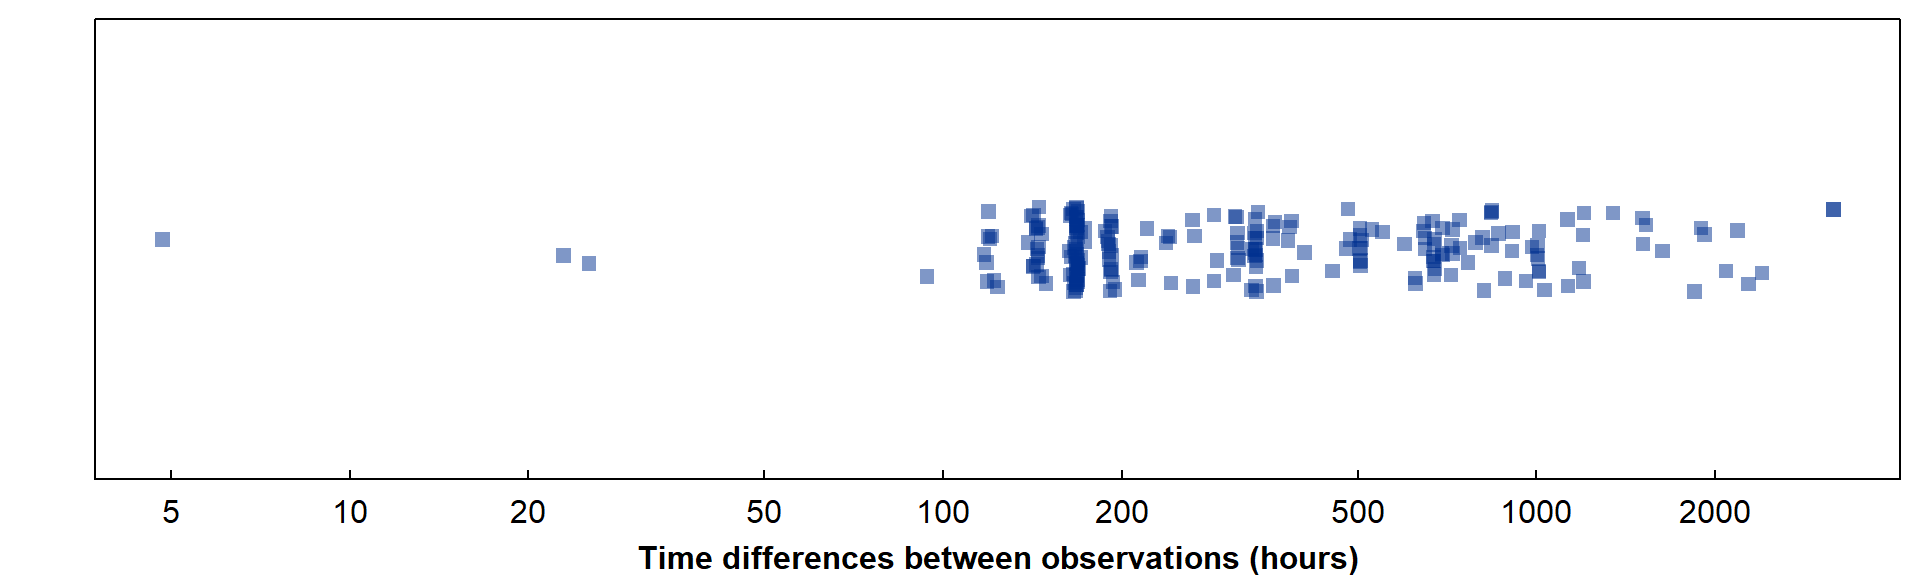
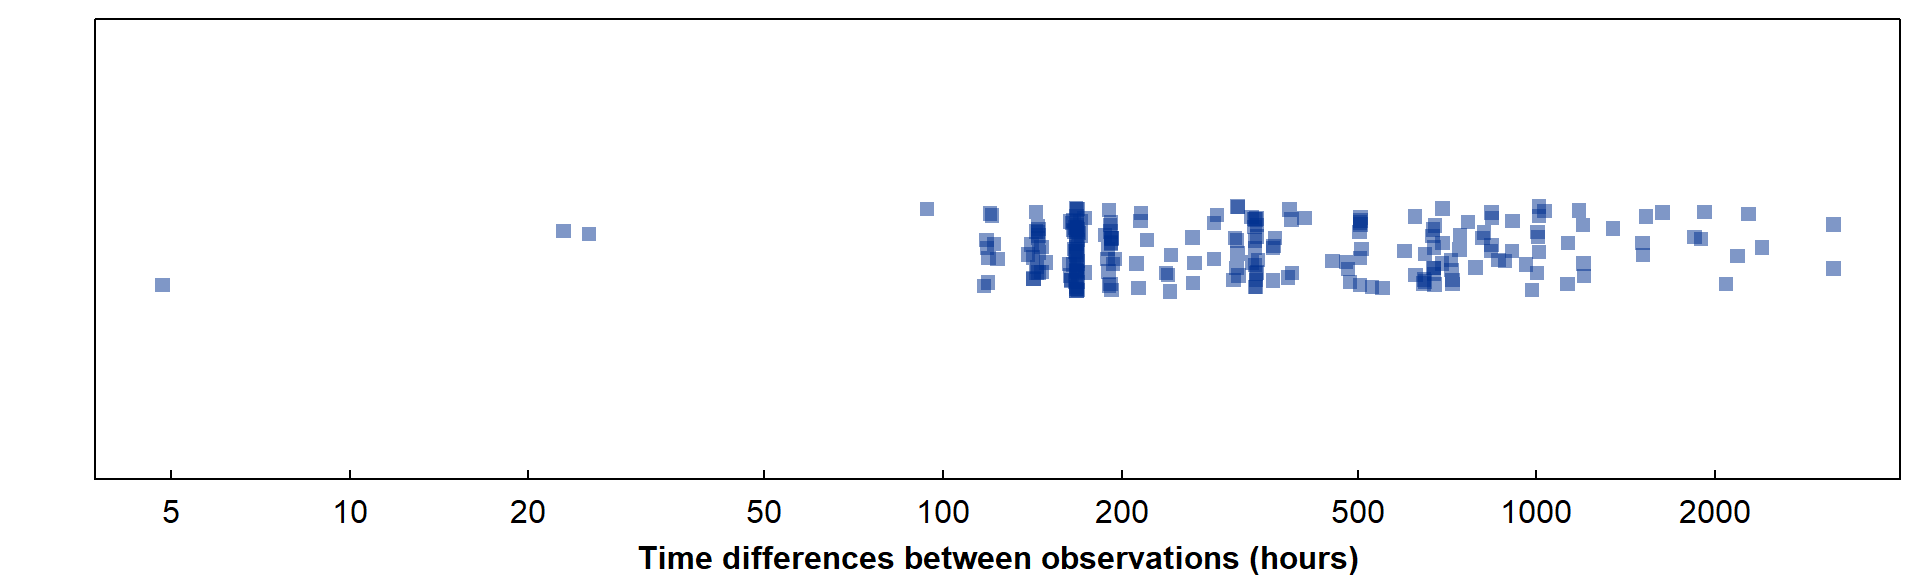
fix carryovers from litedown

diff --git a/docs/regTS.html b/docs/regTS.html
@@ -11,7 +11,7 @@
 
 <meta name="author" content="Andrew Rate" />
 
-<meta name="date" content="2026-11-08" />
+<meta name="date" content="2026-11-09" />
 
 <title>Time Series Regularization</title>
 
@@ -433,7 +433,7 @@ div.tocify {
 <li class="dropdown">
   <a href="#" class="dropdown-toggle" data-toggle="dropdown" role="button" data-bs-toggle="dropdown" aria-expanded="false">
     Intro
-
+     
     <span class="caret"></span>
   </a>
   <ul class="dropdown-menu" role="menu">
@@ -448,7 +448,7 @@ div.tocify {
 <li class="dropdown">
   <a href="#" class="dropdown-toggle" data-toggle="dropdown" role="button" data-bs-toggle="dropdown" aria-expanded="false">
     Plots
-
+     
     <span class="caret"></span>
   </a>
   <ul class="dropdown-menu" role="menu">
@@ -469,7 +469,7 @@ div.tocify {
 <li class="dropdown">
   <a href="#" class="dropdown-toggle" data-toggle="dropdown" role="button" data-bs-toggle="dropdown" aria-expanded="false">
     Compare
-
+     
     <span class="caret"></span>
   </a>
   <ul class="dropdown-menu" role="menu">
@@ -484,7 +484,7 @@ div.tocify {
 <li class="dropdown">
   <a href="#" class="dropdown-toggle" data-toggle="dropdown" role="button" data-bs-toggle="dropdown" aria-expanded="false">
     Relate
-
+     
     <span class="caret"></span>
   </a>
   <ul class="dropdown-menu" role="menu">
@@ -517,7 +517,7 @@ div.tocify {
 <li class="dropdown">
   <a href="#" class="dropdown-toggle" data-toggle="dropdown" role="button" data-bs-toggle="dropdown" aria-expanded="false">
     Maps
-
+     
     <span class="caret"></span>
   </a>
   <ul class="dropdown-menu" role="menu">
@@ -544,7 +544,7 @@ div.tocify {
 <li class="dropdown">
   <a href="#" class="dropdown-toggle" data-toggle="dropdown" role="button" data-bs-toggle="dropdown" aria-expanded="false">
     Multi
-
+     
     <span class="caret"></span>
   </a>
   <ul class="dropdown-menu" role="menu">
@@ -565,7 +565,7 @@ div.tocify {
 <li class="dropdown">
   <a href="#" class="dropdown-toggle" data-toggle="dropdown" role="button" data-bs-toggle="dropdown" aria-expanded="false">
     Util
-
+     
     <span class="caret"></span>
   </a>
   <ul class="dropdown-menu" role="menu">
@@ -593,7 +593,7 @@ div.tocify {
 <li class="dropdown">
   <a href="#" class="dropdown-toggle" data-toggle="dropdown" role="button" data-bs-toggle="dropdown" aria-expanded="false">
     Reporting
-
+     
     <span class="caret"></span>
   </a>
   <ul class="dropdown-menu" role="menu">
@@ -647,7 +647,7 @@ div.tocify {
 <h1 class="title toc-ignore">Time Series Regularization</h1>
 <h3 class="subtitle">Including imputation of missing observations</h3>
 <h4 class="author">Andrew Rate</h4>
-<h4 class="date">2026-11-08</h4>
+<h4 class="date">2026-11-09</h4>
 
 </div>
 
@@ -721,13 +721,9 @@ groundwater sulfate dataset.
 </div>
 <p> </p>
 <p>It's clear from Figure 1 that the original data have a very wide
-range of time differences between observations, from about
-<code>{r} round(min(SO4diffs))</code> hours
-(<code>{r} round(min(SO4diffs)/24,1)</code> days) to
-<code>{r} round(max(SO4diffs))</code> hours
-(<code>{r} round(max(SO4diffs)/24,1)</code> days), with a median time
-difference of about <code>{r} round(median(SO4diffs)/24)</code>
-days.</p>
+range of time differences between observations, from about 5 hours (0.2
+days) to 3169 hours (132.1 days), with a median time difference of about
+12 days.</p>
 <p>For simplicity we'll try to regularise to monthly dates.</p>
 <p>Also, since we have time differences of &lt; 24 hours, we are likely
 to have at least one duplicate date (likely with a different time), so
@@ -891,14 +887,12 @@ dates of observations.
 <p>The results of our regularisation look acceptable where we have
 imputed values using linear interpolation (<code>na.approx()</code>).
 With spline interpolation (<code>na.spline()</code>), the imputed
-negative sulfate concentration
-(<code>{r} round(min(SO4.spline.zoo),1)</code> mg/L) in Sep-Oct 2014,
-and probably the large imputed spike in sulfate concentration
-(<code>{r} round(max(SO4.spline.zoo),1)</code> mg/L) in Sep-Oct 2011
-(Figure 2(c)), do not really look reasonable. We could avoid negative
-concentrations by log-transforming concentrations before imputing the
-<code>NA</code> values, but the large positive spike is harder to
-avoid.</p>
+negative sulfate concentration (-13.4 mg/L) in Sep-Oct 2014, and
+probably the large imputed spike in sulfate concentration (139.5 mg/L)
+in Sep-Oct 2011 (Figure 2(c)), do not really look reasonable. We could
+avoid negative concentrations by log-transforming concentrations before
+imputing the <code>NA</code> values, but the large positive spike is
+harder to avoid.</p>
 <p>Any interpolation method is trying to simulate what happened during
 these large gaps between observations; in the absence of enough data, it
 can't do that, but just constructs a line or curve that joins the
@@ -923,48 +917,48 @@ class="section level3">
 <p>We can assess the trend quantitatively with statistical tests like
 the Mann-Kendall test and Sen's slope. Let's try:</p>
 <div class="sourceCode" id="cb16"><pre class="sourceCode r"><code class="sourceCode r"><span id="cb16-1"><a href="#cb16-1" tabindex="-1"></a><span class="fu">mk.test</span>(<span class="fu">coredata</span>(SO4.zoo)) <span class="co"># Mann-Kendall test, Original</span></span></code></pre></div>
-<pre><code>##
+<pre><code>## 
 ##  Mann-Kendall trend test
-##
+## 
 ## data:  coredata(SO4.zoo)
 ## z = -4.5857, n = 230, p-value = 4.525e-06
 ## alternative hypothesis: true S is not equal to 0
 ## sample estimates:
-##             S          varS           tau
+##             S          varS           tau 
 ## -5.350000e+03  1.360623e+06 -2.032250e-01</code></pre>
 <div class="sourceCode" id="cb18"><pre class="sourceCode r"><code class="sourceCode r"><span id="cb18-1"><a href="#cb18-1" tabindex="-1"></a><span class="fu">mk.test</span>(<span class="fu">coredata</span>(SO4.reg.zoo)) <span class="co"># Mann-Kendall test, Regularised</span></span></code></pre></div>
-<pre><code>##
+<pre><code>## 
 ##  Mann-Kendall trend test
-##
+## 
 ## data:  coredata(SO4.reg.zoo)
 ## z = -4.1697, n = 150, p-value = 3.05e-05
 ## alternative hypothesis: true S is not equal to 0
 ## sample estimates:
-##             S          varS           tau
+##             S          varS           tau 
 ## -2.567000e+03  3.787083e+05 -2.297092e-01</code></pre>
 <div class="sourceCode" id="cb20"><pre class="sourceCode r"><code class="sourceCode r"><span id="cb20-1"><a href="#cb20-1" tabindex="-1"></a><span class="fu">sens.slope</span>(<span class="fu">coredata</span>(SO4.zoo)) <span class="co"># Sen&#39;s Slope test, Original</span></span></code></pre></div>
-<pre><code>##
+<pre><code>## 
 ##  Sen&#39;s slope
-##
+## 
 ## data:  coredata(SO4.zoo)
 ## z = -4.5857, n = 230, p-value = 4.525e-06
 ## alternative hypothesis: true z is not equal to 0
 ## 95 percent confidence interval:
 ##  -0.04708517 -0.01902515
 ## sample estimates:
-## Sen&#39;s slope
+## Sen&#39;s slope 
 ##  -0.0327171</code></pre>
 <div class="sourceCode" id="cb22"><pre class="sourceCode r"><code class="sourceCode r"><span id="cb22-1"><a href="#cb22-1" tabindex="-1"></a><span class="fu">sens.slope</span>(<span class="fu">coredata</span>(SO4.reg.zoo)) <span class="co"># Sen&#39;s Slope test, Regularised</span></span></code></pre></div>
-<pre><code>##
+<pre><code>## 
 ##  Sen&#39;s slope
-##
+## 
 ## data:  coredata(SO4.reg.zoo)
 ## z = -4.1697, n = 150, p-value = 3.05e-05
 ## alternative hypothesis: true z is not equal to 0
 ## 95 percent confidence interval:
 ##  -0.08370479 -0.03072832
 ## sample estimates:
-## Sen&#39;s slope
+## Sen&#39;s slope 
 ## -0.05735351</code></pre>
 <p>So, with the Niwot Ridge sulfate data, regularisation has preserved a
 significant decreasing trend in groundwater sulfate concentrations.</p>
@@ -1024,8 +1018,7 @@ scientific conclusions we might make?</p>
 <p> </p>
 <hr style="height: 2px; background-color: #039;" />
 <p>We could now also make a regular time series object (class is
-<code>ts</code>, not <code>zoo</code>; <span
-class="citation">@fig:plot-ts</span>):</p>
+<code>ts</code>, not <code>zoo</code>; Figure 3):</p>
 <div class="sourceCode" id="cb25"><pre class="sourceCode r"><code class="sourceCode r"><span id="cb25-1"><a href="#cb25-1" tabindex="-1"></a>SO4.TS <span class="ot">&lt;-</span> <span class="fu">ts</span>(SO4.reg.zoo, <span class="at">freq=</span><span class="dv">12</span>, <span class="at">start=</span><span class="fu">c</span>(<span class="dv">2006</span>,<span class="dv">5</span>))</span>
 <span id="cb25-2"><a href="#cb25-2" tabindex="-1"></a><span class="fu">print</span>(SO4.TS, <span class="at">digits=</span><span class="dv">4</span>)</span></code></pre></div>
 <pre><code>##        Jan   Feb   Mar   Apr   May   Jun   Jul   Aug   Sep   Oct   Nov   Dec
@@ -1045,10 +1038,10 @@ class="citation">@fig:plot-ts</span>):</p>
 <div class="sourceCode" id="cb27"><pre class="sourceCode r"><code class="sourceCode r"><span id="cb27-1"><a href="#cb27-1" tabindex="-1"></a><span class="fu">par</span>(<span class="at">mfrow=</span><span class="fu">c</span>(<span class="dv">1</span>,<span class="dv">1</span>), <span class="at">mar=</span><span class="fu">c</span>(<span class="dv">3</span>,<span class="dv">3</span>,<span class="dv">1</span>,<span class="dv">1</span>), <span class="at">mgp=</span><span class="fu">c</span>(<span class="fl">1.5</span>,<span class="fl">0.3</span>,<span class="dv">0</span>), <span class="at">tcl=</span><span class="fl">0.25</span>, <span class="at">font.lab=</span><span class="dv">2</span>)</span>
 <span id="cb27-2"><a href="#cb27-2" tabindex="-1"></a><span class="fu">plot</span>(SO4.TS, <span class="at">col=</span><span class="st">&quot;#039&quot;</span>)</span></code></pre></div>
 <div class="figure" style="text-align: center">
-<img src="regTS_files/figure-html/plot-ts-1.png" alt="Regularised time series of ground water sulfate monitoring data from Niwot Ridge plotted as an R (i.e. regular) time series object." width="960" />
+<img src="regTS_files/figure-html/plot-ts-1.png" alt="Figure 4: Regularised time series of ground water sulfate monitoring data from Niwot Ridge plotted as an R (i.e. regular) time series object." width="960" />
 <p class="caption">
-Regularised time series of ground water sulfate monitoring data from
-Niwot Ridge plotted as an R (i.e. regular) time series object.
+Figure 4: Regularised time series of ground water sulfate monitoring
+data from Niwot Ridge plotted as an R (i.e. regular) time series object.
 </p>
 </div>
 <p style="text-align: center;">
@@ -1109,9 +1102,9 @@ imputation!</p>
 <span id="cb30-5"><a href="#cb30-5" tabindex="-1"></a>SO4.TS2 <span class="ot">&lt;-</span> <span class="fu">ts</span>(SO4imputed, <span class="at">freq=</span><span class="dv">12</span>, <span class="at">start=</span><span class="fu">c</span>(<span class="dv">2006</span>,<span class="dv">5</span>))</span>
 <span id="cb30-6"><a href="#cb30-6" tabindex="-1"></a><span class="fu">summary</span>(SO4.TS2); <span class="fu">cat</span>(<span class="st">&quot;</span><span class="sc">\n</span><span class="st">The monthly data now have&quot;</span>,<span class="fu">sum</span>(<span class="fu">is.na</span>(SO4imputed)),</span>
 <span id="cb30-7"><a href="#cb30-7" tabindex="-1"></a>                      <span class="st">&quot;missing values&quot;</span>)</span></code></pre></div>
-<pre><code>##    Min. 1st Qu.  Median    Mean 3rd Qu.    Max.
+<pre><code>##    Min. 1st Qu.  Median    Mean 3rd Qu.    Max. 
 ##   8.953  23.990  28.107  29.599  33.535  54.888</code></pre>
-<pre><code>##
+<pre><code>## 
 ## The monthly data now have 0 missing values</code></pre>
 </div>
 <div id="compare-imputation-strategies" class="section level3">
@@ -1137,9 +1130,9 @@ imputation!</p>
 <span id="cb33-19"><a href="#cb33-19" tabindex="-1"></a>       <span class="at">legend=</span><span class="fu">c</span>(<span class="st">&quot;Date matching ± 3 days&quot;</span>, <span class="st">&quot;Aggregate to monthly mean&quot;</span>),</span>
 <span id="cb33-20"><a href="#cb33-20" tabindex="-1"></a>       <span class="at">lwd=</span><span class="fu">c</span>(<span class="dv">1</span>,<span class="dv">3</span>), <span class="at">col=</span><span class="fu">c</span>(<span class="st">&quot;#a80&quot;</span>,<span class="st">&quot;#DA70D6b0&quot;</span>))</span></code></pre></div>
 <div class="figure" style="text-align: center">
-<img src="regTS_files/figure-html/compare-imputations-with-plot-1.png" alt="Figure 4: Comparison of regularised time series using different strategies for imputation of values which are not on regular dates or missing. Inward x-axis ticks show dates of observations." width="672" />
+<img src="regTS_files/figure-html/compare-imputations-with-plot-1.png" alt="Figure 5: Comparison of regularised time series using different strategies for imputation of values which are not on regular dates or missing. Inward x-axis ticks show dates of observations." width="672" />
 <p class="caption">
-Figure 4: Comparison of regularised time series using different
+Figure 5: Comparison of regularised time series using different
 strategies for imputation of values which are not on regular dates or
 missing. Inward x-axis ticks show dates of observations.
 </p>
@@ -1162,9 +1155,9 @@ missing. Inward x-axis ticks show dates of observations.
 <span id="cb34-15"><a href="#cb34-15" tabindex="-1"></a>                      <span class="at">xlab=</span><span class="st">&quot;Imputation strategy&quot;</span>, <span class="at">ylab=</span><span class="st">&quot;Sulfate (µeq/L)&quot;</span>))</span>
 <span id="cb34-16"><a href="#cb34-16" tabindex="-1"></a><span class="fu">axis</span>(<span class="dv">2</span>, <span class="at">at=</span><span class="fu">log10</span>(<span class="fu">c</span>(<span class="dv">5</span>,<span class="dv">10</span>,<span class="dv">20</span>,<span class="dv">50</span>)), <span class="at">labels=</span><span class="fu">c</span>(<span class="dv">5</span>,<span class="dv">10</span>,<span class="dv">20</span>,<span class="dv">50</span>))</span></code></pre></div>
 <div class="figure" style="text-align: center">
-<img src="regTS_files/figure-html/compare-ts-distributions-again-1.png" alt="Figure 5: Comparisons of the distributions of sulfate concentrations in the two variants of regularised/imputed time series, using density curves (left) and box plots (right)." width="960" />
+<img src="regTS_files/figure-html/compare-ts-distributions-again-1.png" alt="Figure 6: Comparisons of the distributions of sulfate concentrations in the two variants of regularised/imputed time series, using density curves (left) and box plots (right)." width="960" />
 <p class="caption">
-Figure 5: Comparisons of the distributions of sulfate concentrations in
+Figure 6: Comparisons of the distributions of sulfate concentrations in
 the two variants of regularised/imputed time series, using density
 curves (left) and box plots (right).
 </p>
@@ -1182,16 +1175,17 @@ to time series trends or forecasts?</p>
 <p style="text-align: center;">
 <a href="timeseries.html#regTSlink">Return to main time series page</a>
 </p>
+</div>
+</div>
+<div id="ai-statement" class="section level2">
 <h2>AI Statement</h2>
-
-<p>The original code for Appendix 1 was used to start a discussion with MS Copilot.
-Some improvements to the code and text were made as a result of that discussion,
-but all the code and text was written by the author who identifies as a human.</p>
-
+<p>The original code for Appendix 1 was used to start a discussion with
+MS Copilot. Some improvements to the code and text were made as a result
+of that discussion, but all the code and text was written by the author
+who identifies as a human.</p>
 <p id="References">
  
 </p>
-</div>
 </div>
 <div id="references" class="section level2">
 <h2>References</h2>
